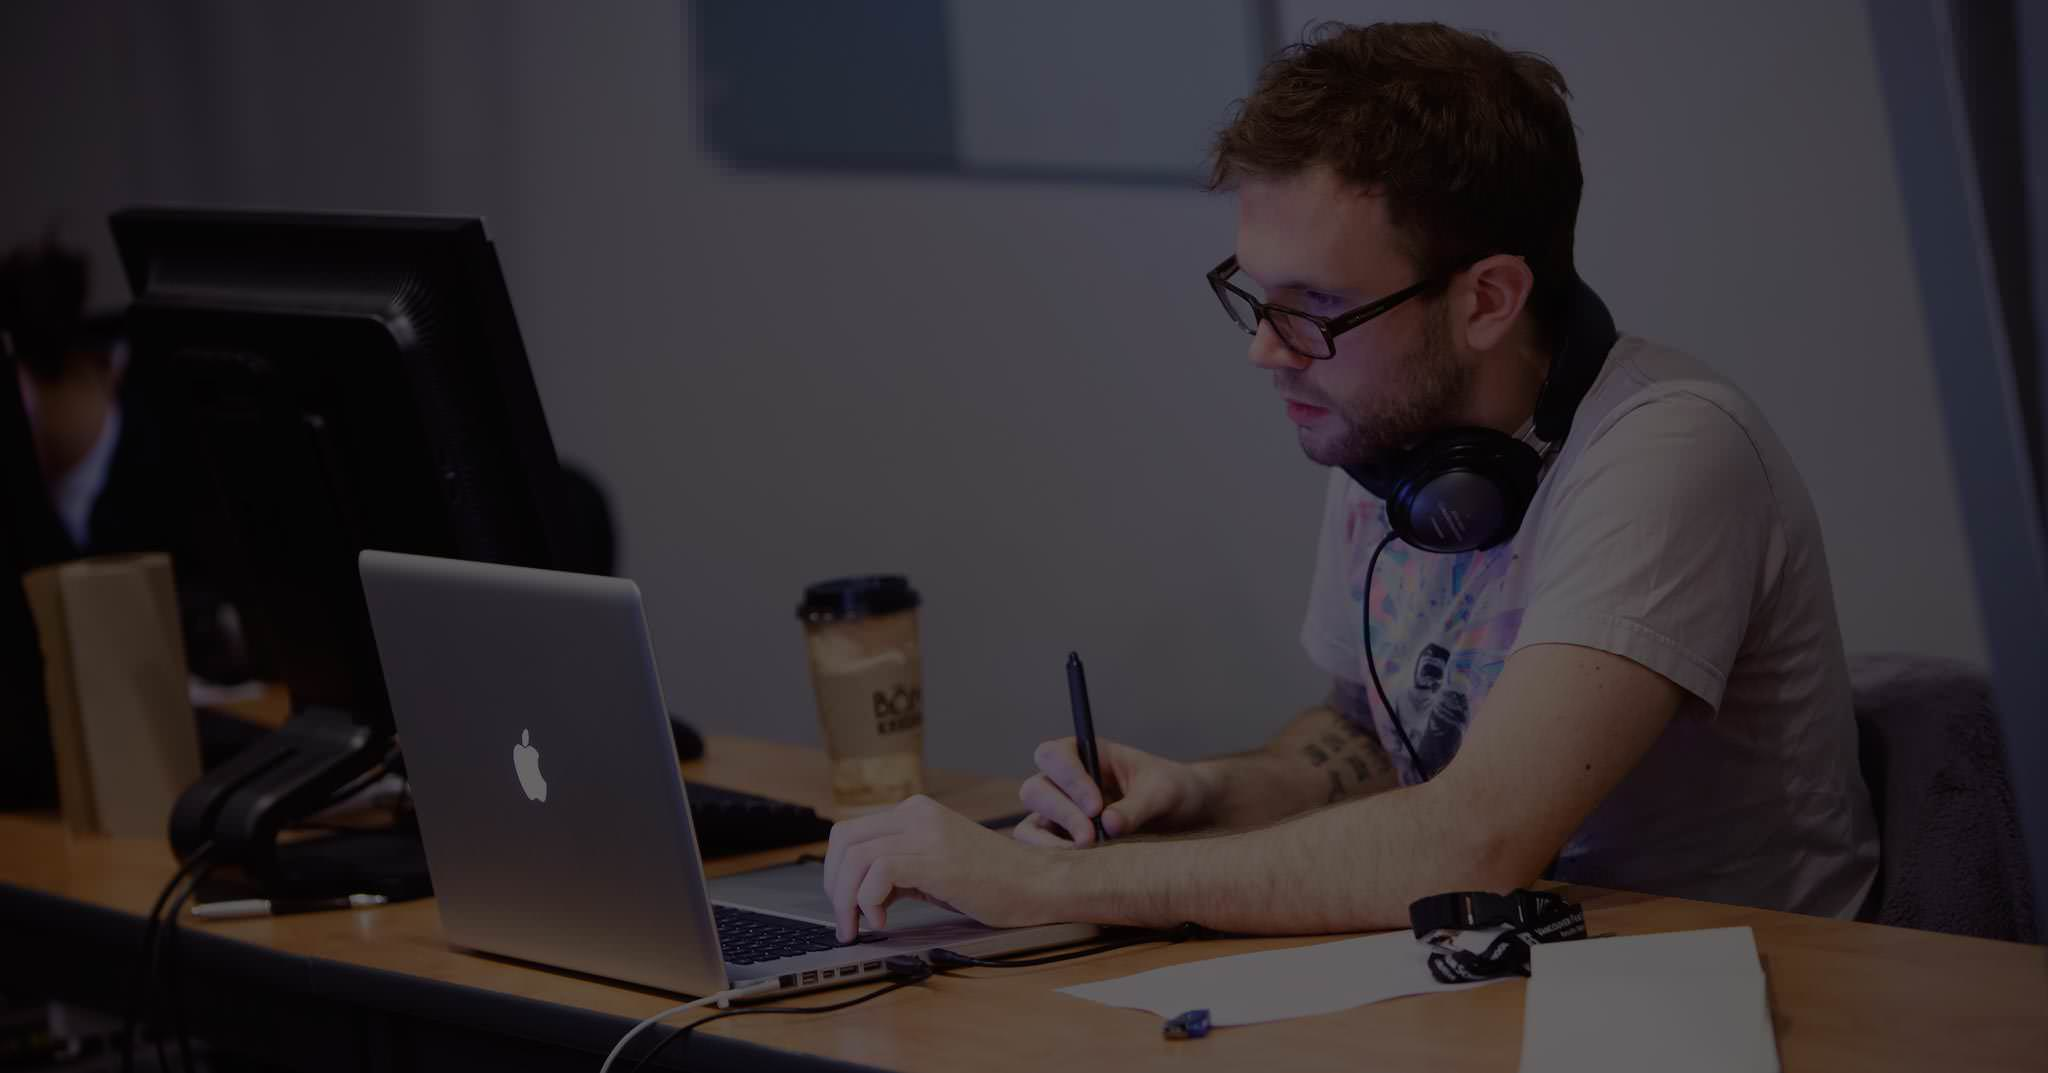
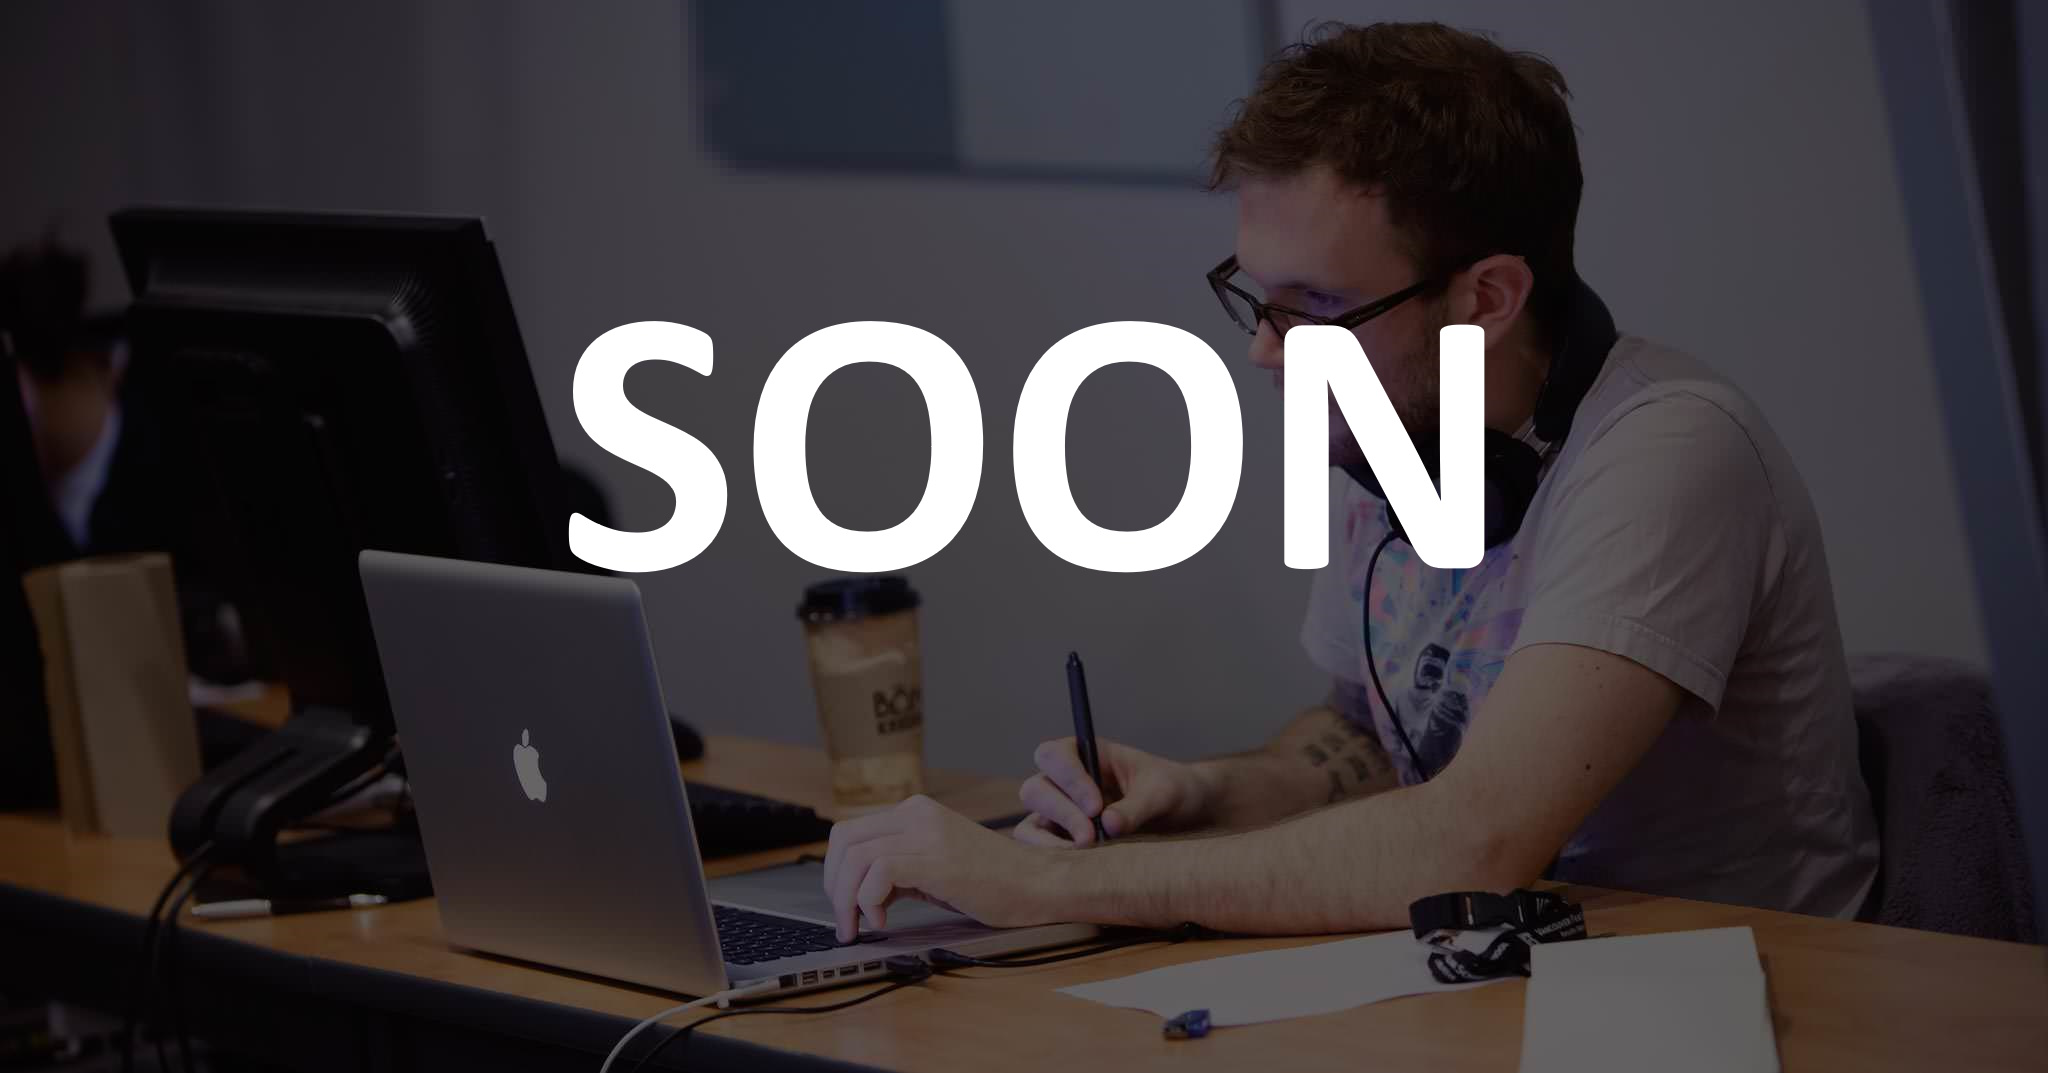
General Update

Changed region(s): [[0.2812, 0.2768, 0.75, 0.5536]]

diff --git a/preloader.html b/preloader.html
@@ -1,0 +1,5 @@
+<div id="tt-preloader">
+    <div id="pre-status">
+        <div class="preload-placeholder"></div>
+    </div>
+</div>
